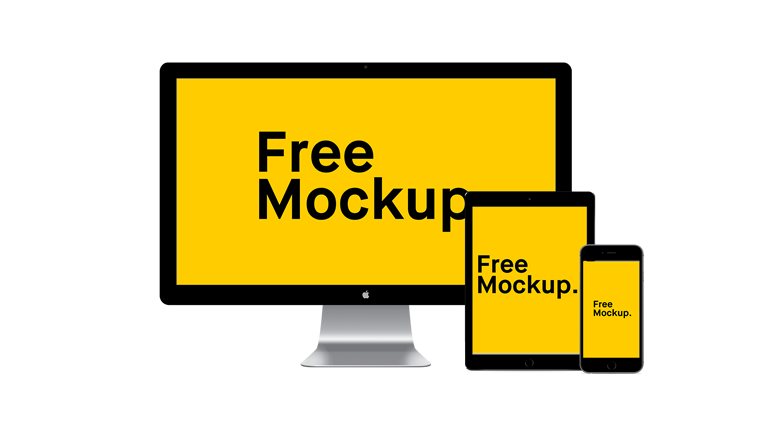
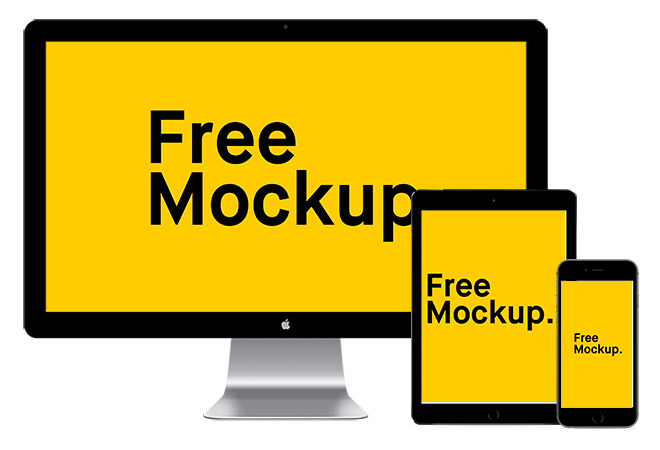
content(src): edit

diff --git a/src/styles/common.blocks/banner/banner.css b/src/styles/common.blocks/banner/banner.css
@@ -1,11 +1,13 @@
 /* класс баннер делает секцию на вест экран */
 .banner {
   display: grid;
+  grid-auto-columns: auto auto;
+  grid-auto-rows: 1fr 1fr;
   margin-top: calc(0px - var(--asideTop-height));
   margin-left: calc(0px - var(--main_padding-left));
   margin-right: calc(0px - var(--main_padding-right));
   margin-bottom: 0;
-  height: 50vh;
+  height: 60vh;
   background-position: center;
   background-repeat: no-repeat;
   position: relative;
@@ -26,7 +28,7 @@
 
 .banner > h1 {
   justify-self: center;
-  align-self: end;
+  align-self: center;
   color: white;
   font-size: 3em;
   margin: 0;
@@ -48,22 +50,24 @@
 
 /* тест */
 .banner[name='tile'] {
-  grid-template-columns: 1fr 1fr;
-  grid-template-rows: 1fr 1fr;
   background: pink;
 }
 
 .banner[name='tile'] > h1 {
   justify-self: end;
+  align-self: end;
   font-size: 5em;
+  grid-column: 1;
 }
 
 .banner[name='tile'] > p {
   justify-self: end;
+  grid-column: 1;
+  grid-row: 2;
 }
 
 .banner[name='tile'] > img {
   grid-column: 2;
-  grid-row: 1 / -1;
-  justify-self: start;
+  grid-row: 1 / 3;
+  align-self: center;
 }
